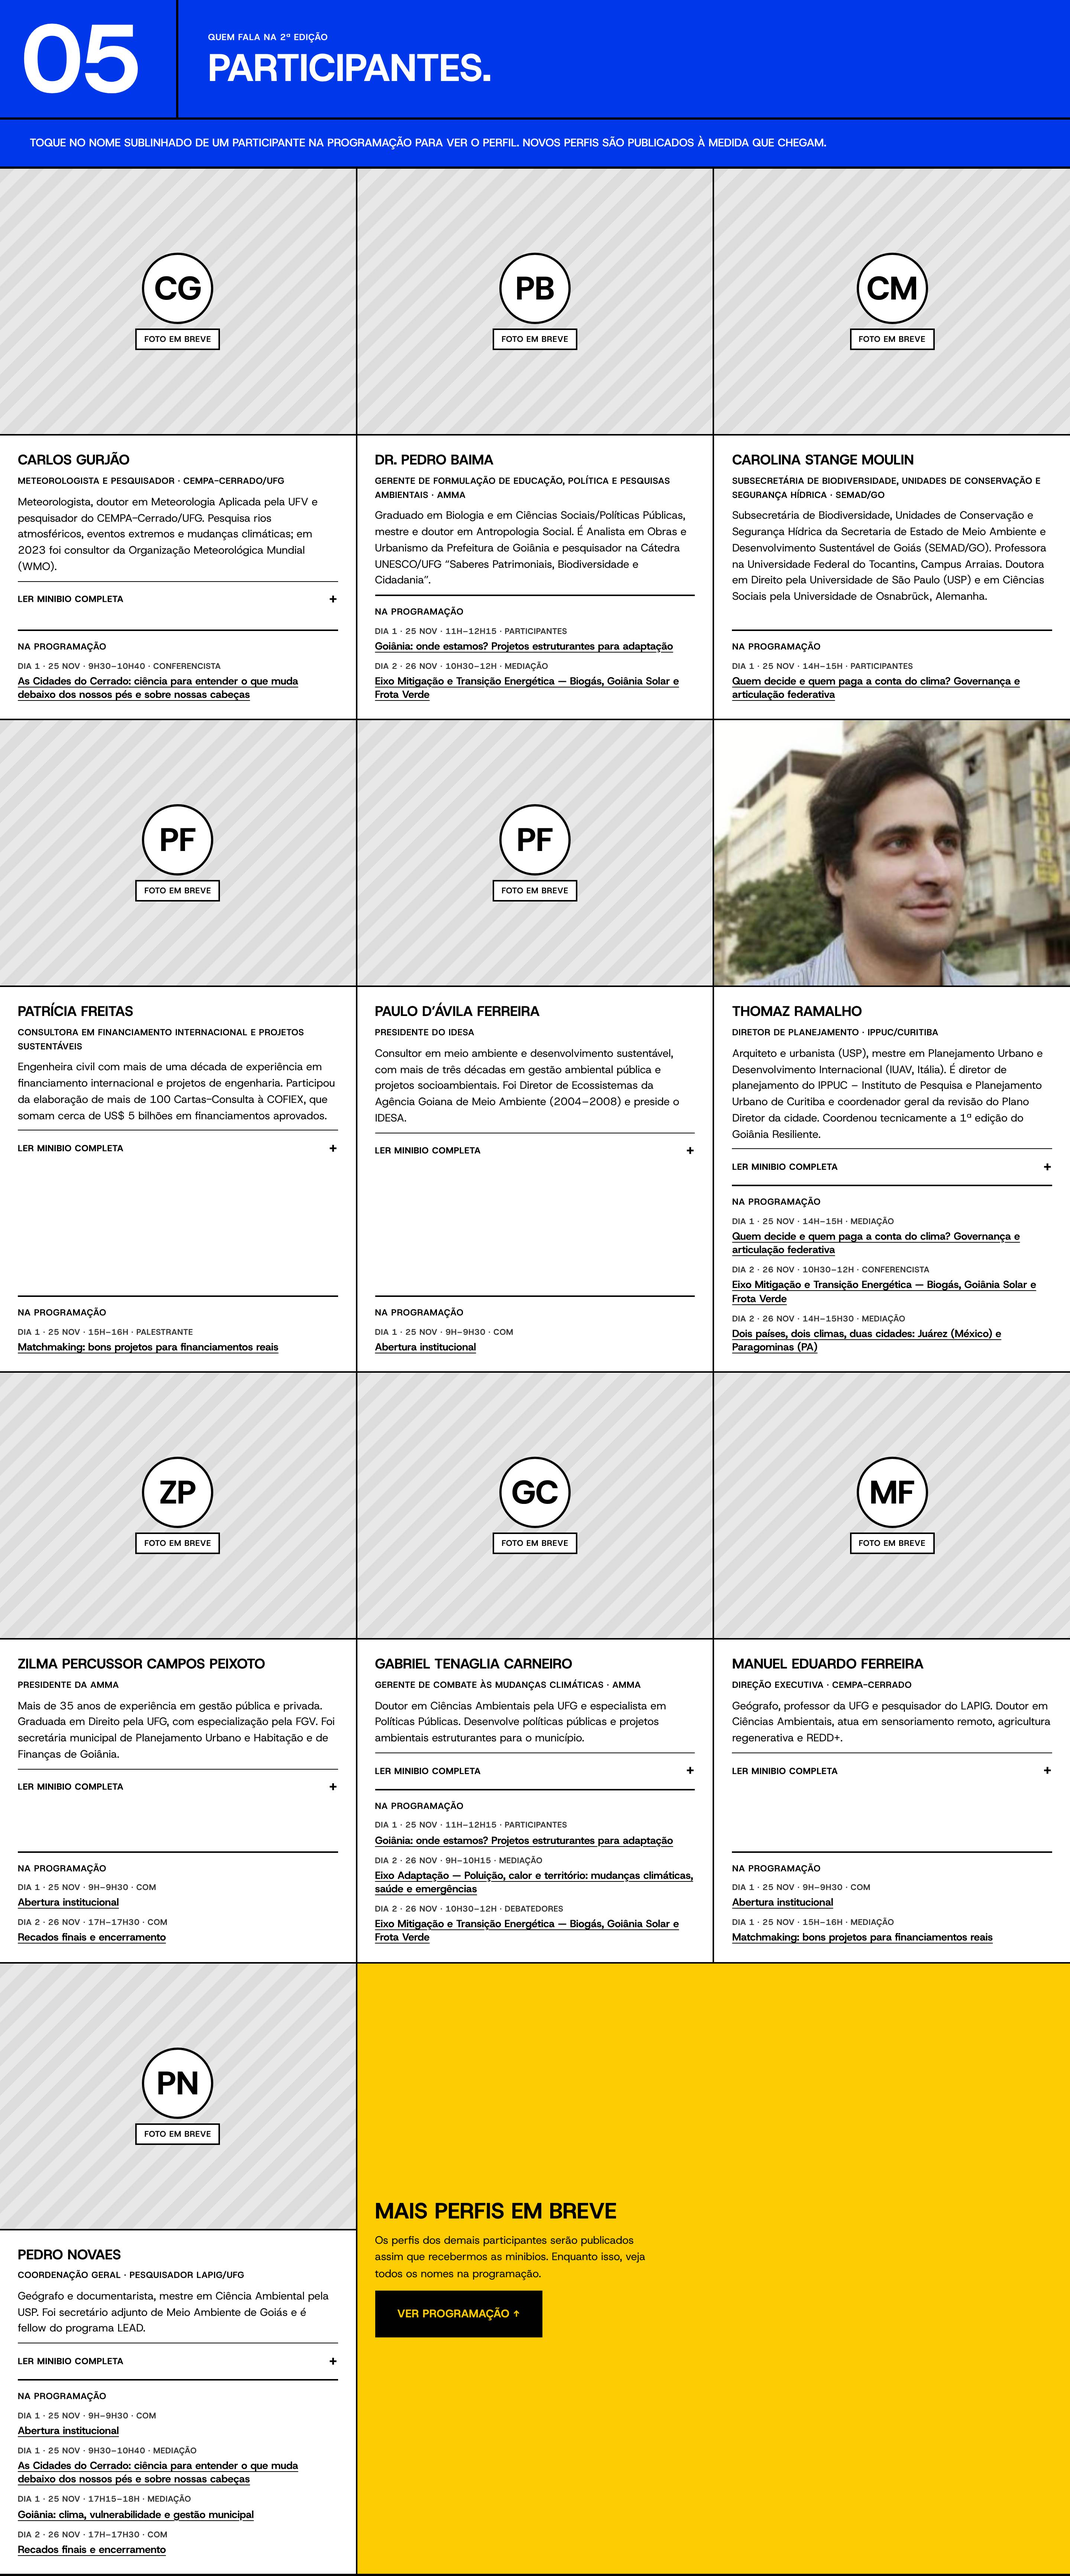
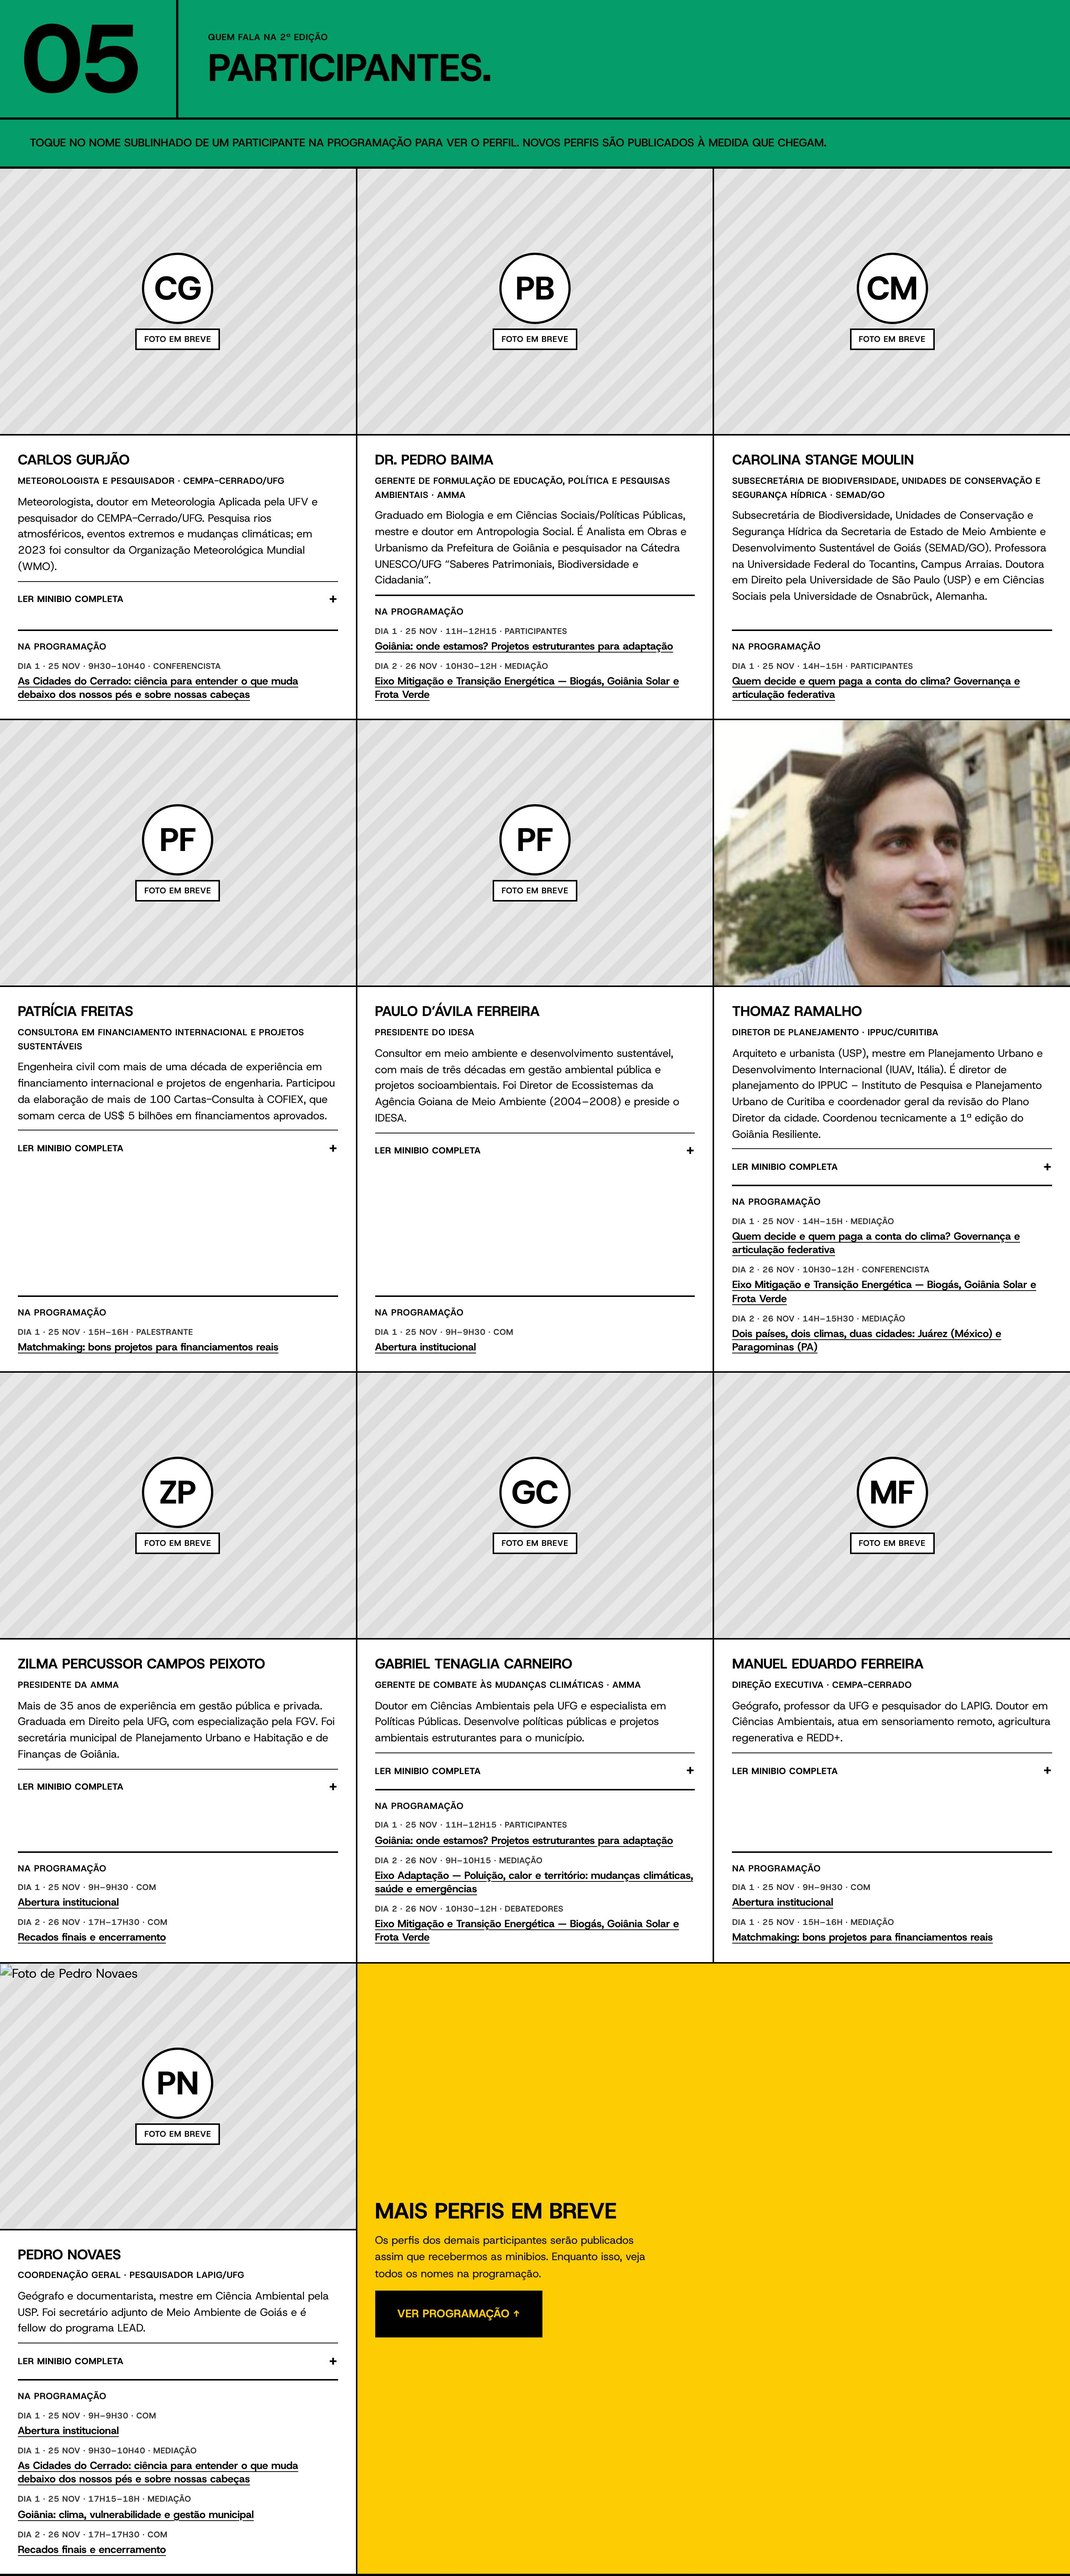
Participantes em fundo verde com texto preto (regra do kit de marca do NB-Studio)
O kit de redes sociais do estúdio define texto sempre preto. Em azul, o
texto preto pequeno fica ilegível na tela; o verde da mesma paleta mantém
a regra com boa leitura.

Claude-Session: https://claude.ai/code/session_01GCNgHbjtgAZspZ3tmY6gHp

Changed region(s): [[0.0, 0.0, 1.0, 0.0623]]

diff --git a/css/style.css b/css/style.css
@@ -683,9 +683,9 @@ a.conv-link:focus-visible, .conv-agenda a:focus-visible, .ler-mais summary:focus
 .item-link:focus-visible, .item-thumb:focus-visible, .modal-fechar:focus-visible { outline: 3px solid var(--azul); outline-offset: 2px; }
 
 /* ============ CONVIDADOS ============ */
-.convidados { background: var(--azul); }
-.convidados .sec-head { color: var(--branco); border-bottom-color: var(--preto); }
-.conv-sub { padding: 20px 40px; border-bottom: var(--borda-grossa); font-size: 15px; font-weight: 600; text-transform: uppercase; color: var(--branco); }
+.convidados { background: var(--verde); }
+
+.conv-sub { padding: 20px 40px; border-bottom: var(--borda-grossa); font-size: 15px; font-weight: 600; text-transform: uppercase; }
 .conv-grid { display: grid; grid-template-columns: repeat(3, 1fr); gap: 2px; background: var(--preto); }
 .conv-vazio { padding: 28px 40px; background: var(--branco); }
 .convidado { background: var(--branco); display: flex; flex-direction: column; scroll-margin-top: 70px; }
